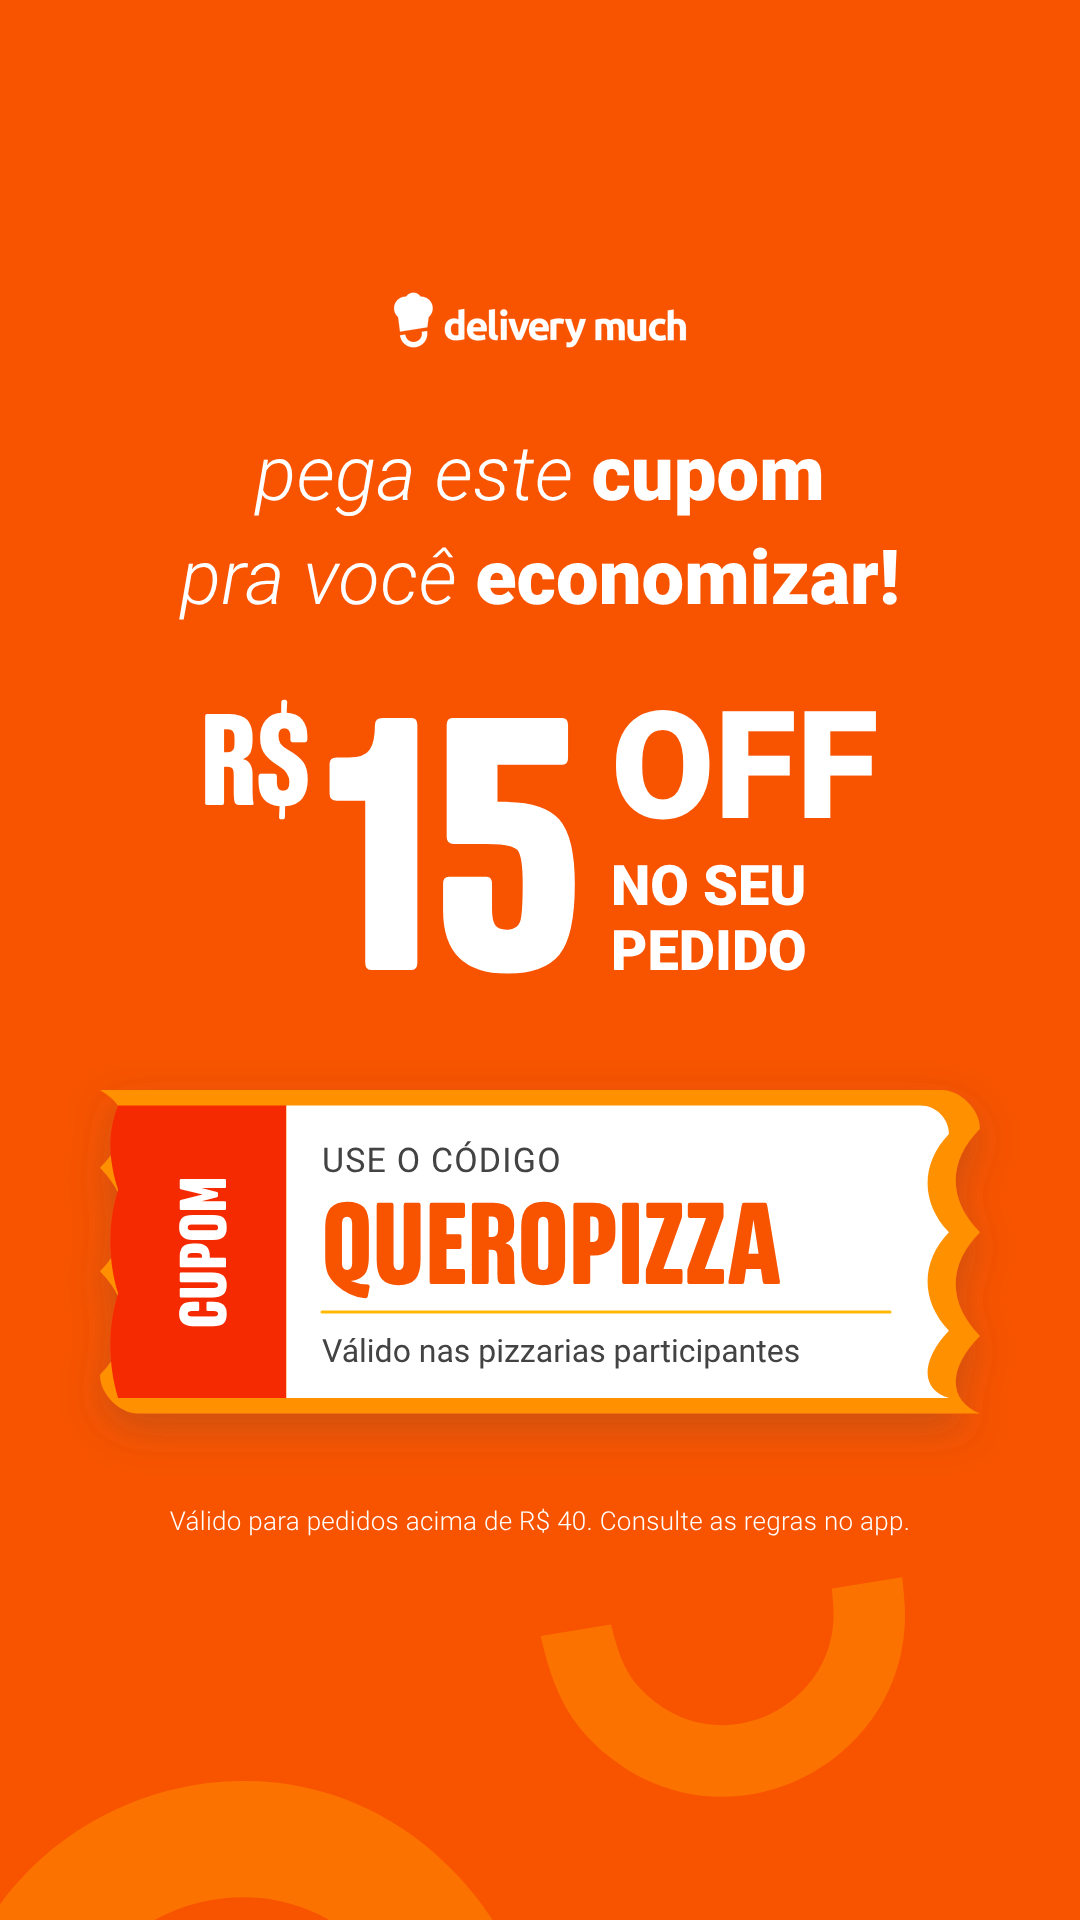
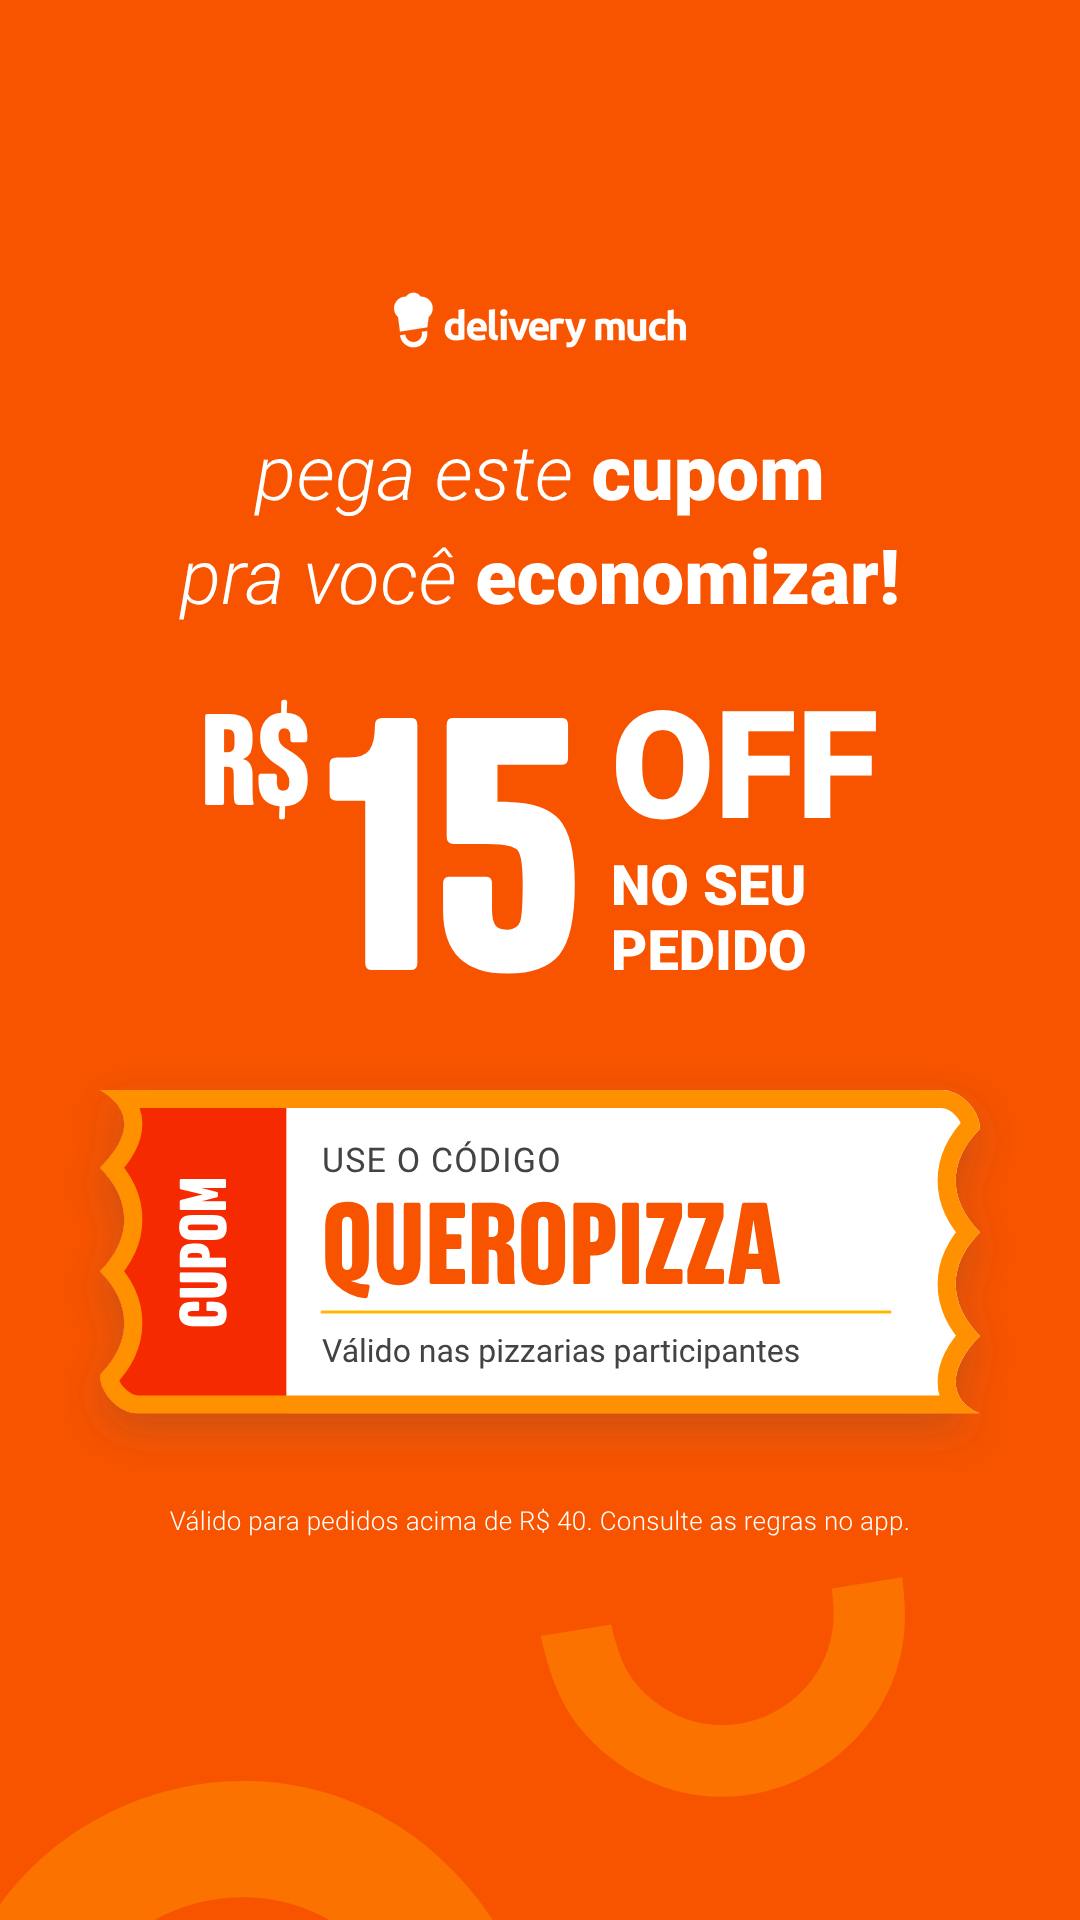
feat(skills): arte de aniversario da franquia (refino_14) e ticket oficial sem vazamento
Peca nova para o franqueado comemorar o aniversario da franquia na
cidade: lockup do numero de anos ({{anos}}, testado com 3 e com 10),
frase mista "o aniversario e nosso, o presente e seu!" e ticket com o
valor do presente em destaque e o codigo abaixo. Aprovada na revisao
comparativa (5/5/5/5/5/4) depois de duas rodadas.

- ticket-cupom.svg: a aba vermelha desenhada a parte vazava pela moldura
  no lado esquerdo e deixava "dentes" laranja. Agora tudo e recortado
  pela silhueta e a moldura e redesenhada como traco: borda constante
  nos dois lados. O cupom (refino_02) usa a mesma construcao.
- lint-art.js valida o XML: SVG com tag sem fechar passava no lint
  (HTML tolerante) e saia preto como imagem.

Claude-Session: https://claude.ai/code/session_01U2vrZ3HoMhvurJB7Z52sZT

Changed region(s): [[0.0917, 0.5625, 0.1528, 0.75], [0.8556, 0.5625, 0.8861, 0.7188]]

diff --git a/scripts/lint-art.js b/scripts/lint-art.js
@@ -96,6 +96,11 @@ async function lint(svgPath, formato) {
   // ── medições no navegador ──
   const html = `<!DOCTYPE html><html><head><meta charset="utf-8"><style>*{margin:0;padding:0}body{background:#fff}svg{display:block}</style></head><body>${raw}</body></html>`;
   const d = JSON.parse(await avaliarNaPagina(html, W, H, COLETA));
+  // a arte vai ao ar como IMAGEM (<img>, export PNG): ali só XML válido renderiza. O HTML acima tolera
+  // tag sem fechar e o resto do lint passaria com a peça saindo preta.
+  const xmlErro = await avaliarNaPagina('<!DOCTYPE html><html><body></body></html>', 50, 50,
+    `(() => { const e = new DOMParser().parseFromString(${JSON.stringify(raw)}, 'image/svg+xml').querySelector('parsererror'); return e ? e.textContent.slice(0, 160) : ''; })()`);
+  if (xmlErro) E('SVG malformado (XML inválido — como imagem não renderiza): ' + xmlErro.replace(/\s+/g, ' '));
   const bgShape = d.shapes.find(s => s.box.w >= W - 2 && s.box.h >= H - 2);
   const bg = bgShape ? hex(bgShape.fill) : 'FFFFFF';
   // camadas de fundo (ocupam > 40% do canvas, ex.: split diagonal) não são contêineres de texto

diff --git a/.agents/skills/luma-creative/SKILL.md b/.agents/skills/luma-creative/SKILL.md
@@ -366,7 +366,7 @@ Antes de escrever uma única linha de código, a IA **DEVE abrir e inspecionar v
     * Conteúdo útil concentrado na faixa central (`y = 260` até `y = 1660`), mantendo o mesmo respiro calculado entre blocos.
 
 * **Repertório de topologias aprovadas** (modelos prontos em `assets/templates/refino/`; ponto de partida para variar, não para copiar; **todos com foto em retângulo**).
-  * **Padrão 1.3 — copie a topologia E o acabamento** (fonte legível em `refino/fontes/`, revisados lado a lado com as referências): oferta com card de preço preso à foto e selo na quina (`refino_01`, feed); **cupom** com frase mista, lockup de valor, ticket oficial e arcos na base (`refino_02`, story); **evento** com foto sangrando no topo e selo de data (`refino_03`, feed); **entrega grátis** com minúscula + vazado (`refino_04`, story); hero de 2 tamanhos + card preso + CTA em contorno (`refino_08`, story); **lista de ofertas** com rótulo de produto e CTA (`refino_10`, story).
+  * **Padrão 1.3 — copie a topologia E o acabamento** (fonte legível em `refino/fontes/`, revisados lado a lado com as referências): oferta com card de preço preso à foto e selo na quina (`refino_01`, feed); **cupom** com frase mista, lockup de valor, ticket oficial e arcos na base (`refino_02`, story); **evento** com foto sangrando no topo e selo de data (`refino_03`, feed); **entrega grátis** com minúscula + vazado (`refino_04`, story); hero de 2 tamanhos + card preso + CTA em contorno (`refino_08`, story); **lista de ofertas** com rótulo de produto e CTA (`refino_10`, story); **aniversário da franquia** com lockup de anos (`{{anos}}`, 1–2 dígitos: por isso alinhado à esquerda), frase mista e ticket com o valor do presente em destaque (`refino_14`, feed).
   * **Pré-1.3 — copie só a topologia**, o acabamento é antigo (preço com centavos grandes, logo pequeno, pattern em escala de farelo): foto sangrando à direita + preço-herói (`refino_09`), etiqueta de preço inclinada (`refino_11`), foto larga + pílulas + preço em linha (`refino_12`), split diagonal em dois tons (`refino_13`), foto cheia no topo (`refino_05`), parceiro novo com logo da loja (`refino_06`), foto lateral sangrando (`refino_07`).
   * Escolha a topologia pelo **objetivo** (Fase 1) e **varie as proporções do retângulo** (largo, alto, quadrado, faixa) em vez de repetir a última.
 
@@ -472,6 +472,8 @@ Antes de finalizar a arte:
 | Mesmo par de arcos carimbado em todas as stories | Pattern só onde a referência usa; o resto clean (§3.1) |
 | CTA branco do mesmo peso do card de preço, disputando o olhar | CTA em contorno branco (`fill="none" stroke="#FFFFFF"`) quando o preço é o ponto focal |
 | Julgar a arte só com o cinza do placeholder | Print com `--foto` (Fase 5) |
+| SVG com tag sem fechar: o lint (HTML tolerante) passava e a imagem saía preta | O lint agora valida o XML; erro bloqueia |
+| Campo variável testado só com o valor curto (`3` anos) | Testar o maior valor real (`10`): o lockup tem de caber sem mudar a composição |
 
 ---
 
